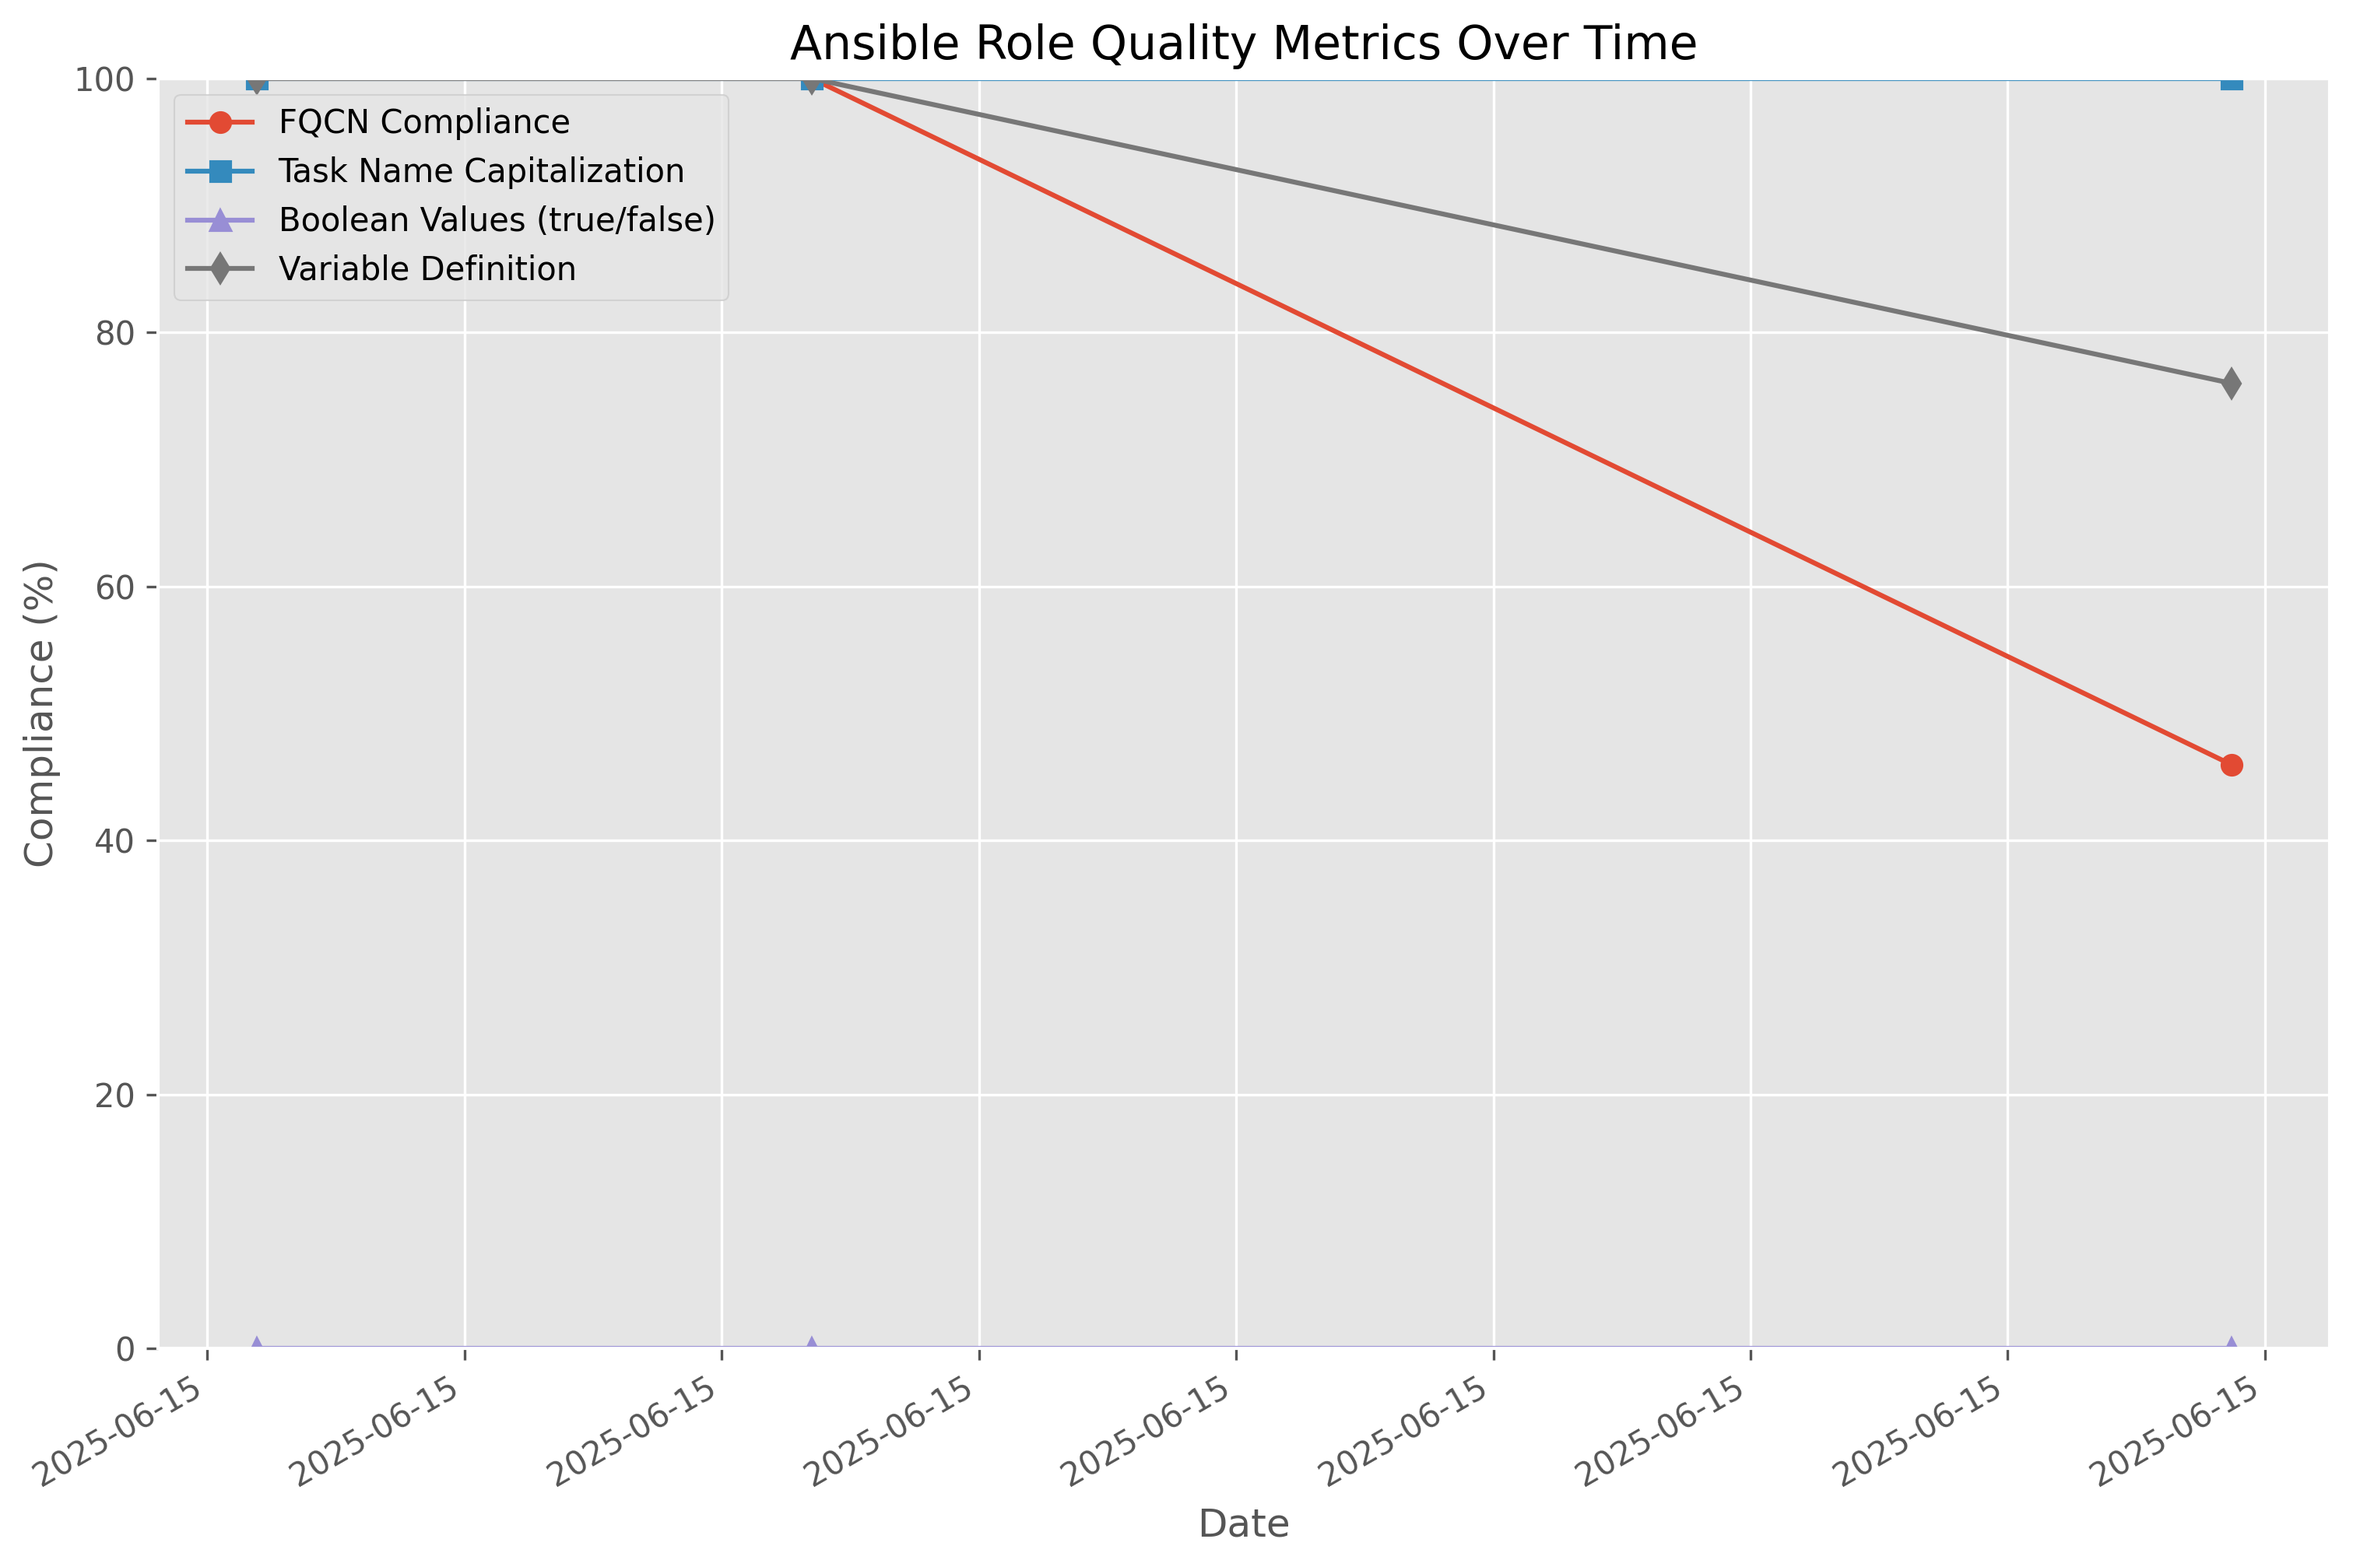
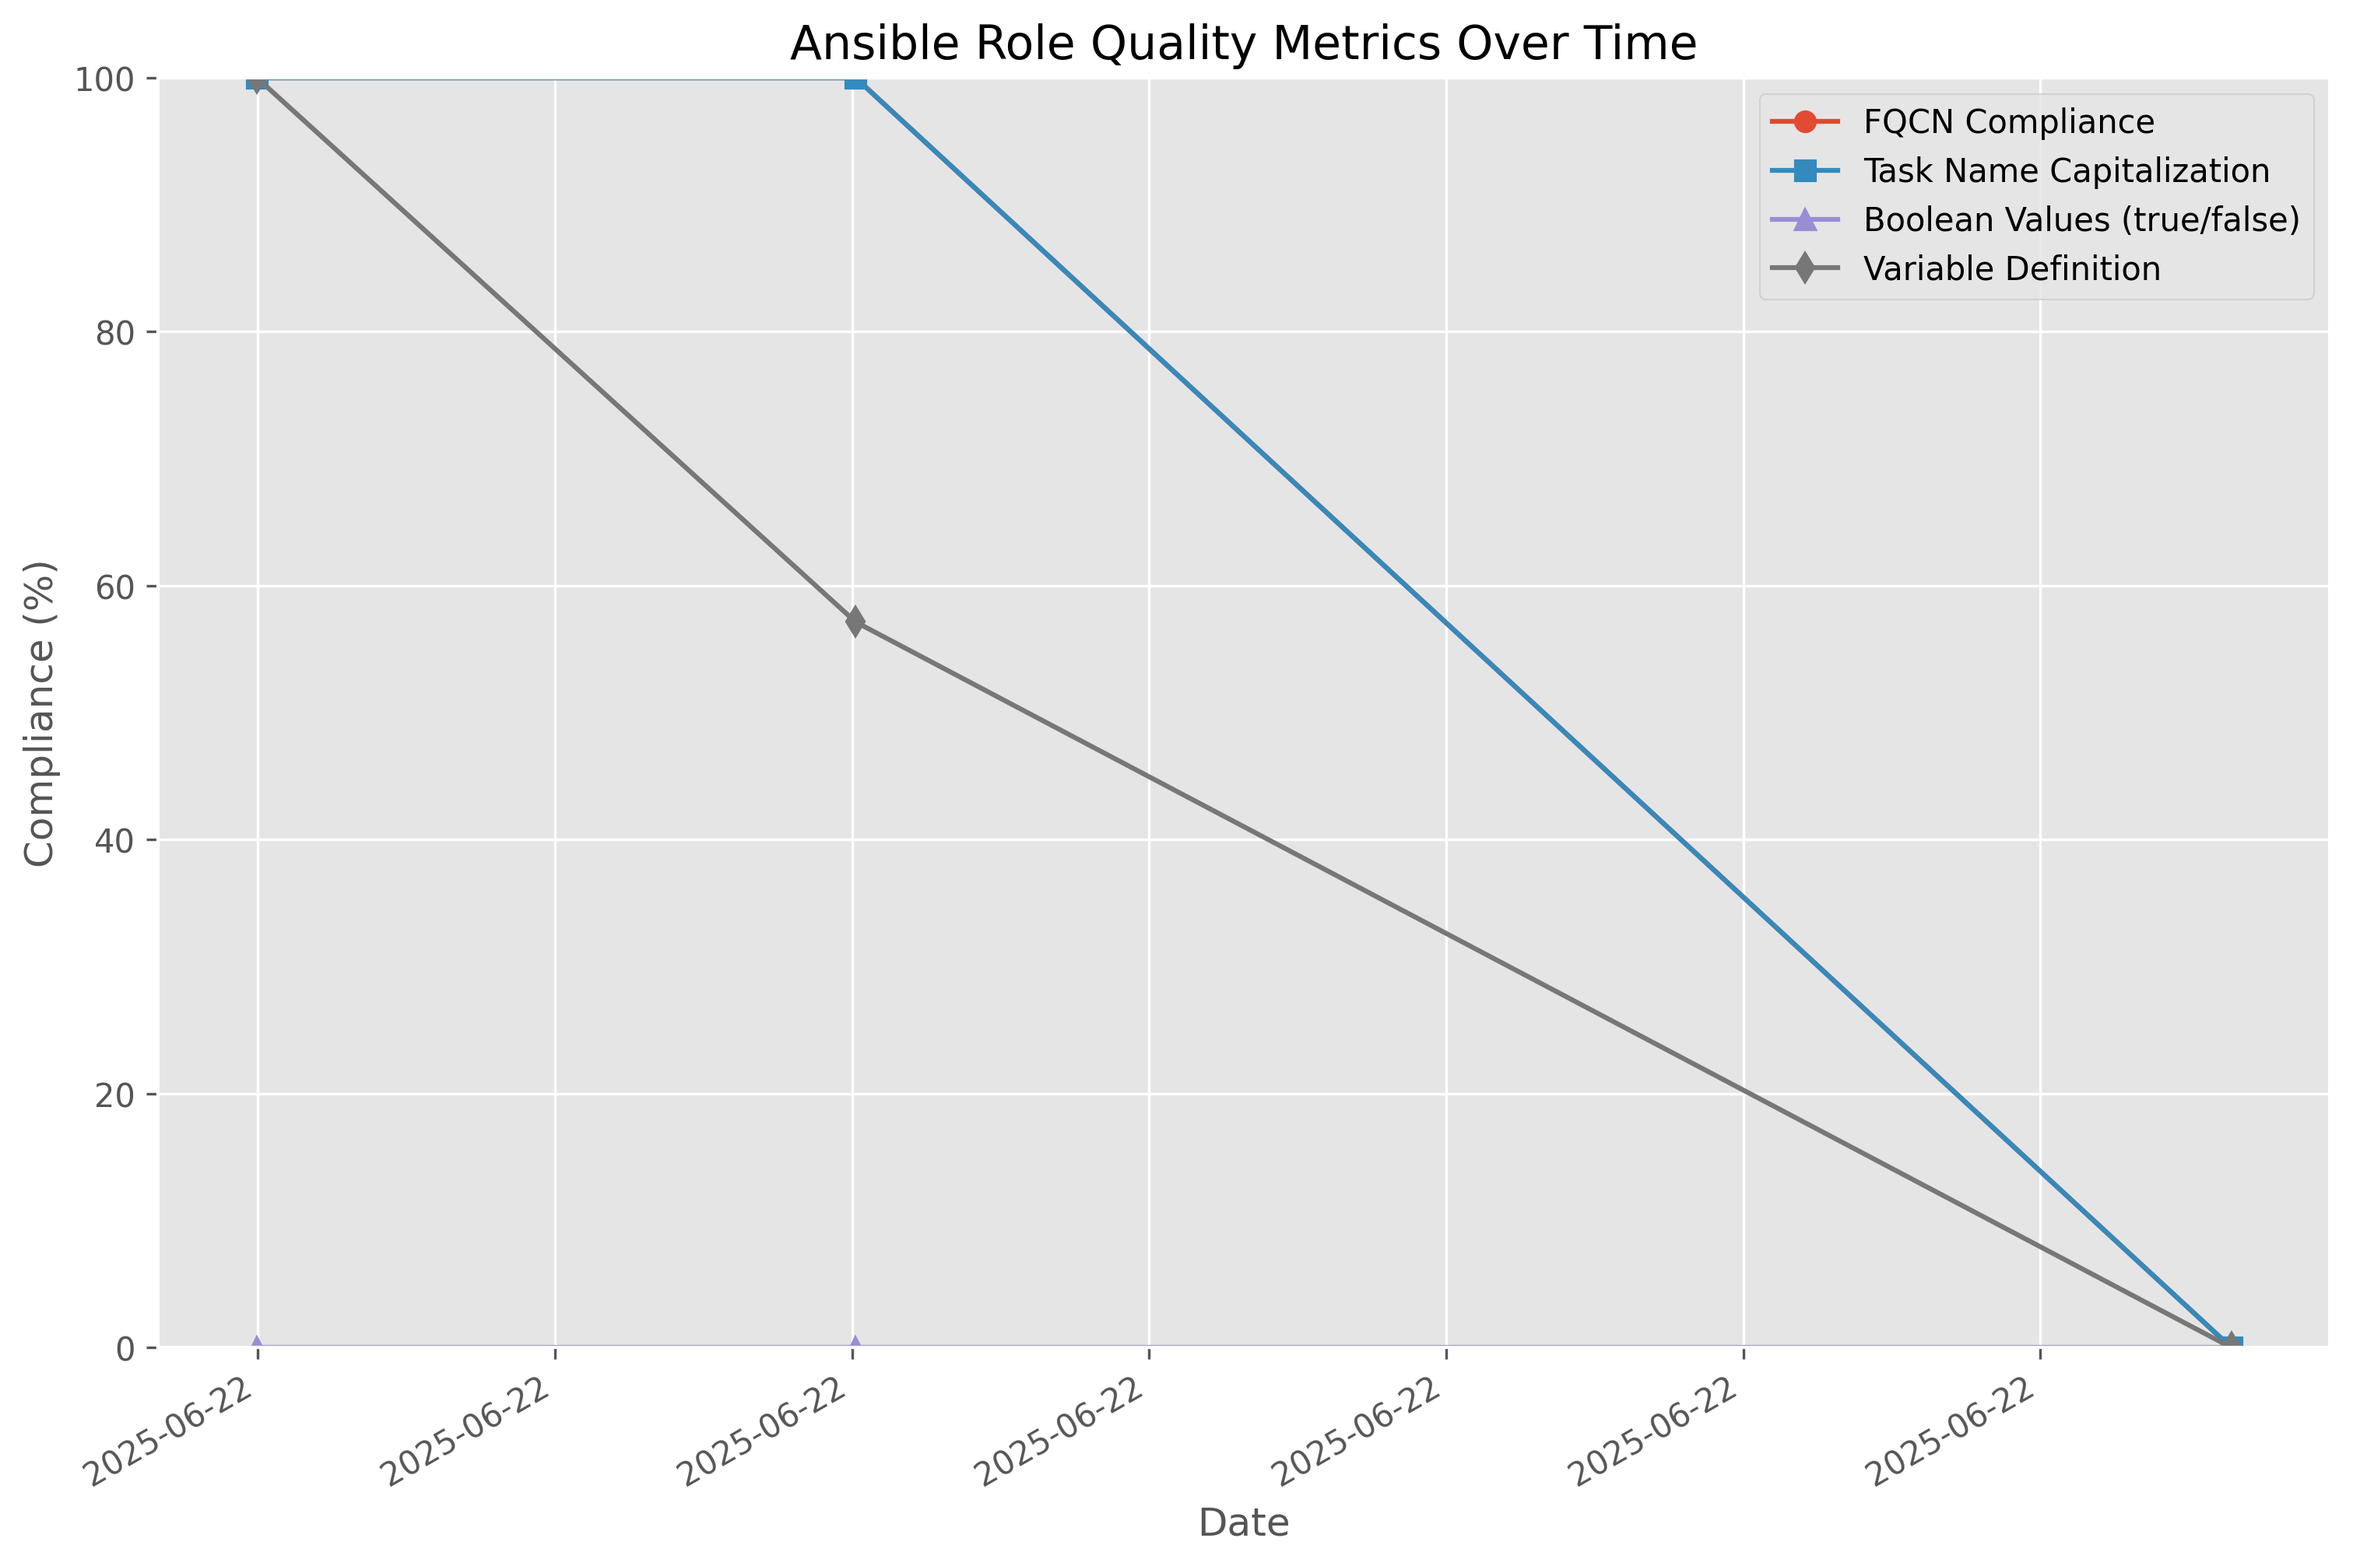
Update metrics (automated) 86381e575e3cb567ae7d61f2b827ec3665fe9a28

diff --git a/metrics/metrics_summary.md b/metrics/metrics_summary.md
@@ -1,15 +1,15 @@
 # Chef to Ansible Conversion Metrics
 
-Last updated: 2025-06-15 00:29:57
+Last updated: 2025-06-22 00:29:21
 
 ## Latest Compliance Metrics
 
 | Metric | Value |
 |--------|-------|
-| FQCN Compliance (%) | 45.98% |
-| Task Name Capitalization (%) | 100.00% |
+| FQCN Compliance (%) | 0.00% |
+| Task Name Capitalization (%) | 0.00% |
 | Boolean Values (true/false) (%) | 0.00% |
-| Variable Definition (%) | 76.00% |
+| Variable Definition (%) | 0.00% |
 
 ## Compliance Metrics Over Time
 
